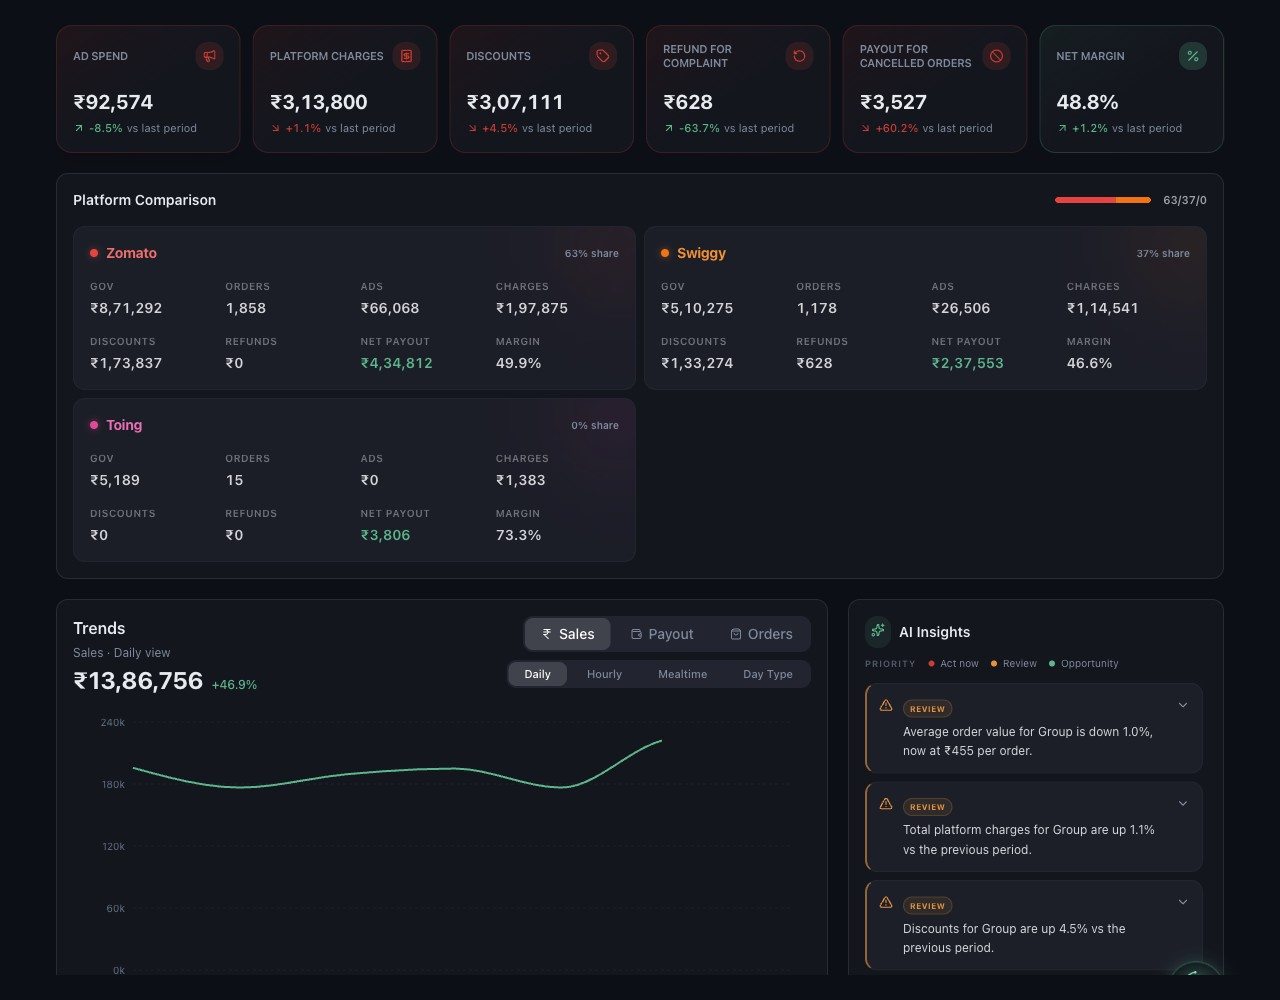
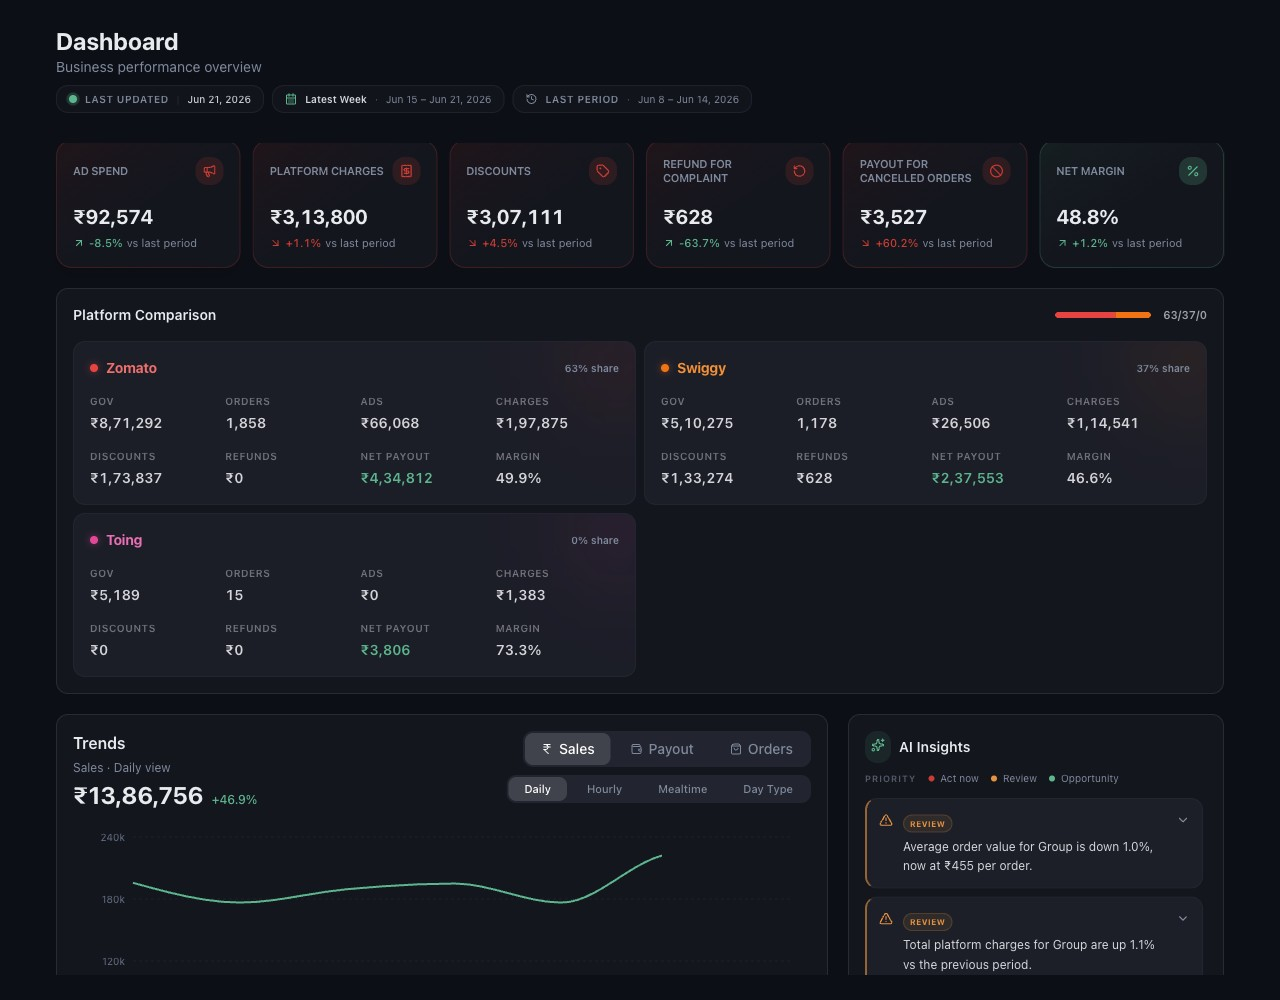
Payouts screenshot: include the Dashboard heading above the platform payout view

diff --git a/src/pages/Mynt.jsx b/src/pages/Mynt.jsx
@@ -422,7 +422,7 @@ function DashboardShowcase() {
                 style={i > 0 ? { clipPath: 'inset(100% 0 0 0)' } : undefined}
               >
                 <img
-                  src={`/shots/${x.shot}.jpg?v=6`}
+                  src={`/shots/${x.shot}.jpg?v=7`}
                   alt={`${x.label} dashboard`}
                   className="h-full w-full object-contain"
                 />
@@ -484,7 +484,7 @@ function DashboardShowcase() {
               transition={{ duration: 0.25 }}
             >
               <img
-                src={`/shots/${d.shot}.jpg?v=6`}
+                src={`/shots/${d.shot}.jpg?v=7`}
                 alt={`${d.label} dashboard`}
                 className="rounded-xl border border-line"
               />
